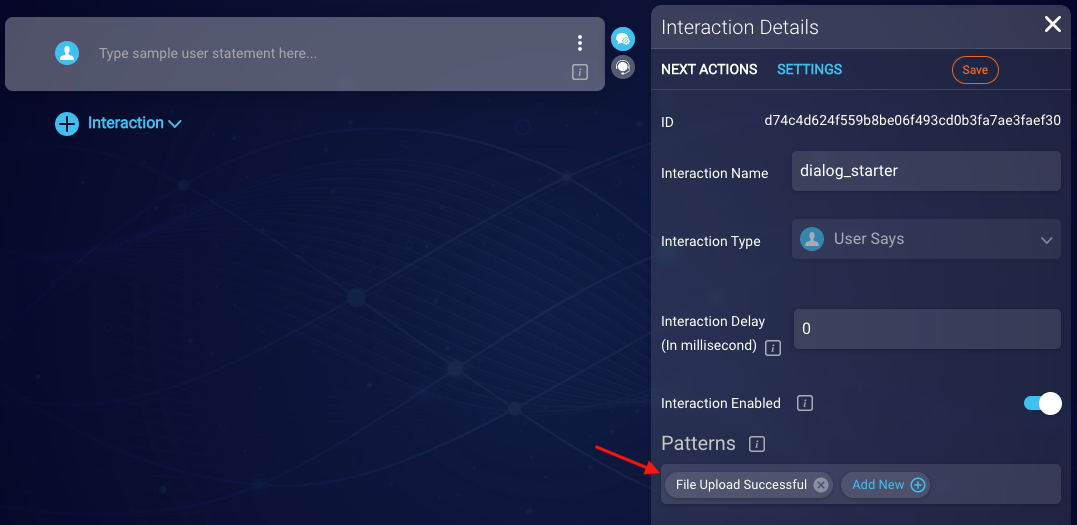
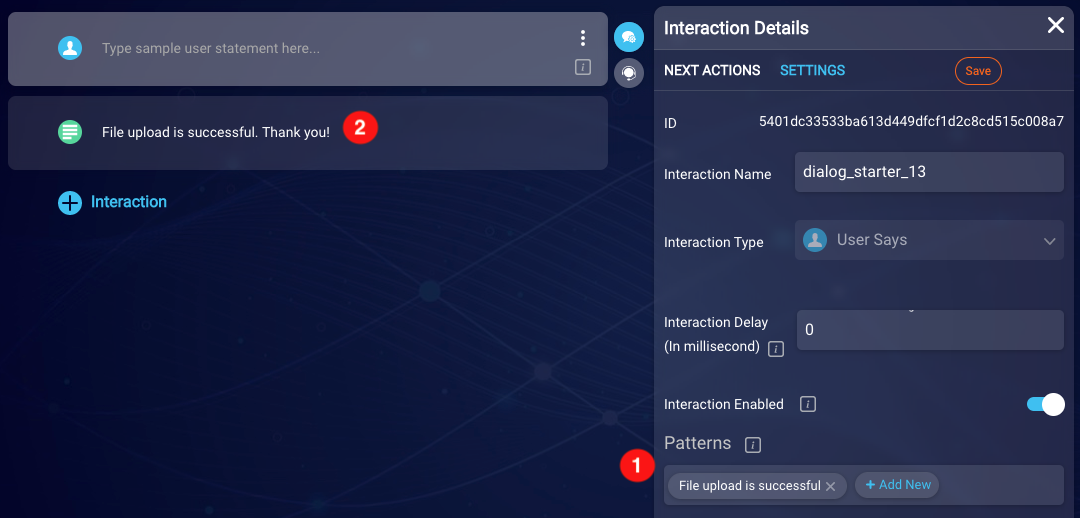
BA-2525 File Upload - edits due to Dev changes

diff --git a/pages/documents/ConversationalAI/ConversationBuilder/Interactions/interactions_integrations.md b/pages/documents/ConversationalAI/ConversationBuilder/Interactions/interactions_integrations.md
@@ -39,8 +39,8 @@ When you use a File Upload interaction, on the consumer side in the chat window,
 
 1.  Add a *File Upload interaction*. This handles upload of the file to LiveEngage.
 2. Add an *Integration interaction* beneath the File Upload interaction. This interaction must invoke a [File integration](conversation-builder-integrations-file-integrations.html) that handles upload of the file from LiveEngage to your brand's external file share or system.
-3. Create a *dialog* that a) is triggered when the upload succeeds, and b) handles the "success" flow.
-4. Create a *dialog* that a) is triggered when the upload fails, and b) handles the "failure" flow.
+3. Create a *dialog* that is triggered when the upload succeeds and responds accordingly to the consumer.
+4. Create a *dialog* that is triggered when the upload fails and responds accordingly to the consumer.
 
 **To add a File Upload interaction - detailed process**
 
@@ -56,25 +56,19 @@ When you use a File Upload interaction, on the consumer side in the chat window,
     <img style="width:600px" src="img/ConvoBuilder/integrations_fileUpload4.png">
 
 4. Return to the File Upload interaction, open the **Interaction Details**, click **Settings**, and specify the following in the **File Upload Settings**:
-    - **Accept File Types**: Select the types of files that you will accept for upload (PDF, JPEG, PNG, DOCx, and so on). If the consumer attempts to upload a file of any other type, the upload will fail, and the interaction's fallback message will be sent. You might want to include mention of the acceptable file types in the initial message that's sent to the consumer, as we've done in the image above.
-    - **Success Message**: Enter the message that will be sent by the system to the bot if the *Integration interaction* is successful. This message should trigger the dialog that handles the conversation flow when the upload to your external system is successful. As an example, you might enter, "File Upload Successful."
-    - **Failure Message**: Enter the message that will be sent by the system to the bot if the *Integration interaction* fails. This message should trigger the dialog that handles the conversation flow when the upload to your external system has failed. As an example, you might enter, "File Upload Failed."
-    - **In Progress Message**: Enter the message that will be sent to the consumer if upload *to the LiveEngage environment* is successful. This message will be sent by the bot to the consumer if the *File Upload interaction* is successful. As an example, you might enter, "Just a moment while we upload your file..." because what follows next is the actual upload to your external system.
+    - **Accept File Types**: Select the types of files that you will accept for upload (PDF, JPEG, PNG, DOCx, and so on). If the consumer attempts to upload a file of any other type, the upload will fail, and the interaction's failure message (described below) will be sent. You might want to include mention of the acceptable file types in the initial message that's sent to the consumer, as we've done in the image above.
+    - **Success Message**: Enter the success message, such as, "File upload is successful." Since file upload to your external system is an asynchronous operation, if the process is successful, this message is sent to the bot to inform it. You'll create a dialog to match this message and respond accordingly to the consumer.
+    - **Failure Message**: Enter the failure message, such as, "File upload is is unsuccessful; please try again." This message is used in 2 ways: 1) If there's an internal failure while processing the upload (the file's type isn't accepted, upload to LiveEngage fails, etc.), the bot will respond directly to the consumer with this message. 2) Like with the success message, since file upload to your external system is an asynchronous operation, if an external failure occurs (your brand's service is down, your file share can't be accesssed, etc.), this message is sent to the bot to inform it. You'll create a dialog to match this message and respond accordingly to the consumer.
+    - **In Progress Message**: Enter the message that will be sent by the bot to the consumer if upload *to the LiveEngage environment* is successful. As an example, you might enter, "Just a moment while we upload your file..." because what follows next is the actual upload to your external system.
 6. Finish configuring the interactions as desired, and save your changes.
-7. Create a dialog that is triggered when the upload succeeds. You can accomplish this with a User Says interaction that matches the pattern for the message you specified in the **Success Message** in the File Upload interaction. That message is sent from the system to the bot, and it will trigger this dialog just like a consumer response does.
+7. Create a dialog that is triggered when the upload succeeds and responds accordingly to the consumer. You accomplish this with a User Says interaction that *exactly* matches the pattern for the message you specified in the **Success Message** field in the File Upload interaction (**1 below**). Follow that with the message to send to the consumer (**2 below**).
 
     <img style="width:800px" src="img/ConvoBuilder/integrations_fileUpload6.png">
-8. Build out the "success" dialog (as little or as much) as needed to handle the "success" flow.
 
-    In our image below, we've simply set the Next Step in the User Says interaction to be a Text interaction in the original dialog.
+8. Create a "failure" dialog along the same lines as the "success" dialog. The first interaction should be a User Says interaction that *exactly* matches the pattern for the message you specified in the **Failure Message** field in the File Upload interaction. Follow that with the message to send to the consumer.
 
-    <img style="width:800px" src="img/ConvoBuilder/integrations_fileUpload7.png">
-
-    Here's that Text interaction in the original dialog:
-
-    <img style="width:600px" src="img/ConvoBuilder/integrations_fileUpload8.png">
-
-9. Create a "failure" dialog along the same lines as the "success" dialog. The first interaction should be a User Says interaction that matches the pattern for the message you specified in the **Failure Message** in the File Upload interaction. This "failure" dialog should handle the "failure" flow as per your requirements.
+{: .important}
+It's recommended that you keep the success and failure dialogs simple and short, returning the flow to your original dialog as quickly as possible.
     
 #### Notes on File Upload interactions
 

diff --git a/pages/documents/ConversationalAI/ConversationBuilder/Interactions/interactions_basics.md b/pages/documents/ConversationalAI/ConversationBuilder/Interactions/interactions_basics.md
@@ -32,6 +32,12 @@ Your bot implementation should meet LiveEngage requirements and those of the spe
 
 ### Limitations
 
+#### Limitations regarding types of interactions
+
+In order to process a number of APIs or handle a series of JavaScript conditions, you might "daisy chain" a series of interactions. In a dialog, you can add a maximum of 10 consecutive statement or integration interactions before you must stop and ask for user input via a question interaction. However, there's no limit to the total number you can include in a dialog.
+
+#### Limitations regarding types of text
+
 The types of text that you can send in a Conversation Builder interaction vary depending if you are building a bot for **chat** or for **messaging**.
 
 **Messaging** only allows plain text to be sent.
